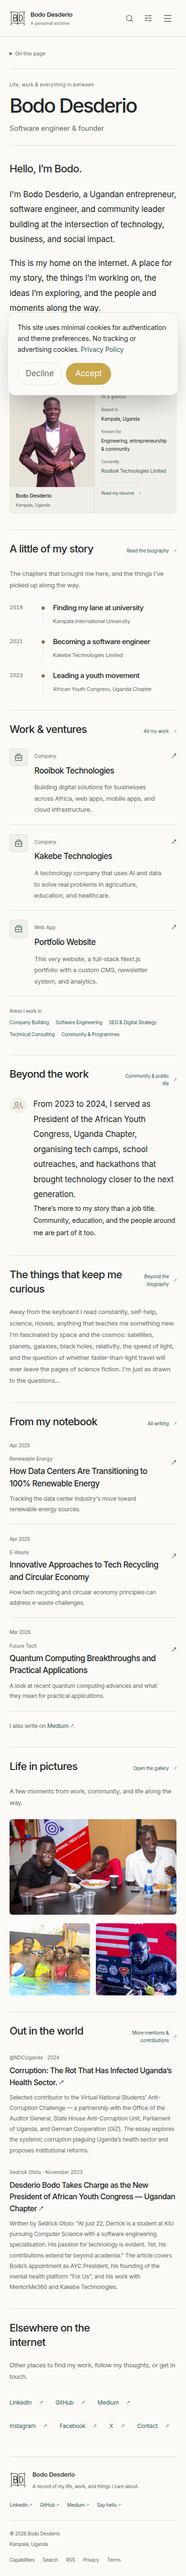
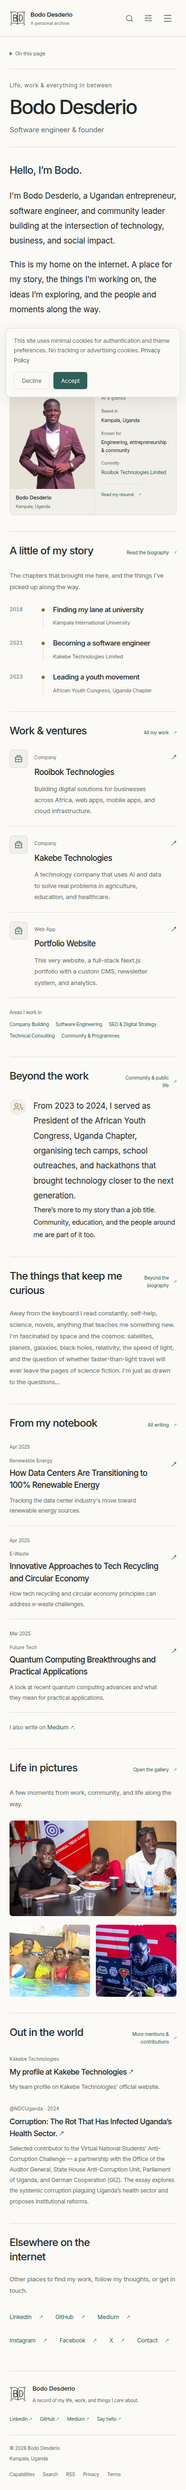
docs: record final production and visible browser verification

Changed region(s): [[0.0308, 0.0, 0.9538, 0.9941], [0.5231, 0.963, 0.6462, 0.9941], [0.8615, 0.4038, 0.8923, 0.4349]]

diff --git a/docs/personal-redesign/live-e2e/README.md b/docs/personal-redesign/live-e2e/README.md
@@ -18,4 +18,12 @@ The subsequent admin pass uses an isolated local database with demo records. The
 
 Reports: [initial live checks](../production-verification.json), [admin checks](../admin-verification.json), [refinement checks](../refinement-verification.json), and [MCP summary](report.json).
 
-Raw MCP transcripts, snapshots, screenshots, session recordings, and `playwright-trace.zip` remain in this directory locally and are excluded from Git. The trace can be opened with Playwright Trace Viewer. The initial session includes retried test selectors and two transient `ERR_NETWORK_CHANGED` requests; the independent production crawl found no application errors. No production credentials are recorded.
+Raw MCP transcripts, snapshots, screenshots, session recordings, and `final-playwright-trace.zip` remain in this directory locally and are excluded from Git. The trace can be opened with Playwright Trace Viewer. The initial session includes retried test selectors and two transient `ERR_NETWORK_CHANGED` requests; the independent production crawl found no application errors. No production credentials are recorded.
+
+## Final refinement pass
+
+The public walkthrough was repeated against the deployed refinement: active biography contents, Rooibok’s corrected website link, Kakebe’s team listing, work filters, article search/detail, global search, persisted reading settings, gallery keyboard controls, contact UI, and mobile navigation. The populated-search Escape check exposed a browser-native clear action; the fix is covered by `reader-keyboard-verification.json` and passes again on production at 1440px and 390px. The final app revision is `39ab77ad4634c2679c3f7646c752934eacbd3ce3`; its visible browser reports zero console errors.
+
+Authenticated admin save, structured editing, navigation, and archive/restore operations use isolated demo data. The production browser’s admin tab remains available for the owner to sign in; these tests do not obtain or mint a production session.
+
+[Open the final local Playwright trace](final-playwright-trace.zip). The final login checks cover responsive layout, required fields, password visibility, and noindex metadata; production credentials were not entered by the agent.

diff --git a/docs/personal-redesign/README.md b/docs/personal-redesign/README.md
@@ -2,7 +2,7 @@
 
 The implemented direction is a substantial personal portfolio: an introduction to Bodo on Home, a detailed biography and history on About, and dedicated archives for work, writing, and photographs. The homepage offers a snippet of every part of that life. It does not use a product pitch or sales funnel.
 
-This supersedes the earlier “Quiet confidence” product-style proposal. The personal archive is deployed at https://bododesderio.com. Screenshots prefixed `live-` and `production-verification.json` record the first production pass. Admin previews use a separate local database with demo content. Existing production records were retained.
+This supersedes the earlier “Quiet confidence” product-style proposal. The personal archive is deployed at https://bododesderio.com. Screenshots prefixed `live-` and `production-verification.json` record the latest production pass. Admin previews use a separate local database with demo content. Existing production records were retained.
 
 ## Benchmarks
 
@@ -99,3 +99,5 @@ Page editing mounts rich editors as sections are opened. Opened sections remain 
 Public refinements include an active section index, a compact cookie-preferences notice, consistent control colors, and mobile contents that close on selection. The Rooibok website is corrected to `https://rooibok.tech`; biography organizations and the Kakebe team listing are linked using the existing CMS. `scripts/update-profile-links.cjs` documents the idempotent, explicitly applied content update.
 
 Verification: [admin-verification.json](admin-verification.json), [refinement-verification.json](refinement-verification.json), and the [live MCP walkthrough](live-e2e/README.md).
+
+The final production verification is pinned to `39ab77ad4634c2679c3f7646c752934eacbd3ce3`: 30 public layouts, zero failures, a healthy app, protected anonymous admin endpoints, successful uppercase image optimization, and visible server-rendered content without JavaScript. The final keyboard regression also passes in the visible MCP browser.

diff --git a/docs/PERSONAL-ARCHIVE-RELEASE.md b/docs/PERSONAL-ARCHIVE-RELEASE.md
@@ -33,6 +33,6 @@ After the deployed `/about` markup is verified, run the live URL in Google's Ric
 
 The second release adds the admin studio, separate analytics page, searchable work/writing lists, a responsive inbox, focused editors, safe structured-field handling, and active public section navigation. Rooibok’s website and Kakebe’s team listing are linked through a targeted CMS update. There are still no new migrations and production seeding remains disabled.
 
-The original personal archive app revision is `c56e5e90479a592baa891ad675f4ea4d25fc7bf4`. The final refinement revision and production walkthrough are recorded after deployment.
+The original personal archive app revision is `c56e5e90479a592baa891ad675f4ea4d25fc7bf4`. The final deployed app revision is `39ab77ad4634c2679c3f7646c752934eacbd3ce3`. The app, PostgreSQL, and Redis are healthy. The public UI and anonymous admin login were checked in a visible Playwright MCP browser; authenticated editing/save/archive workflows were tested against the isolated local database. The final live Escape regression check passes at 1440px and 390px. The browser trace and check reports are linked from `docs/personal-redesign/live-e2e/README.md`.
 
 The editing-studio recovery point is `/opt/myportfolio-backups/20261116T172640Z-studio`. Its database and upload archives passed gzip integrity checks, and the pre-studio image is retained through the recovery override. The existing editorial/message/subscriber/media record counts matched the pre-deployment baseline after the requested URL/profile changes.
